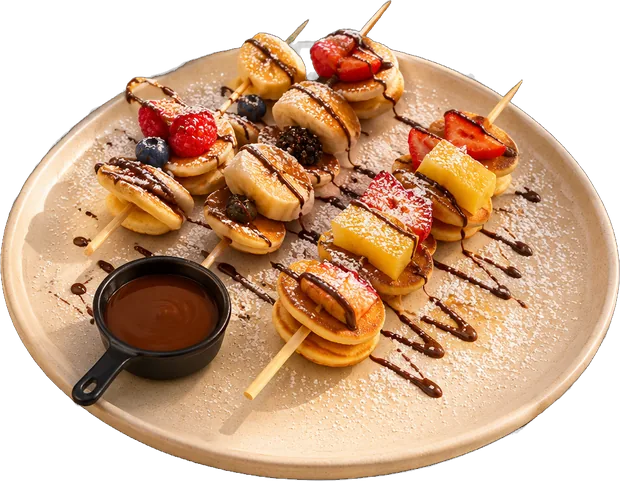
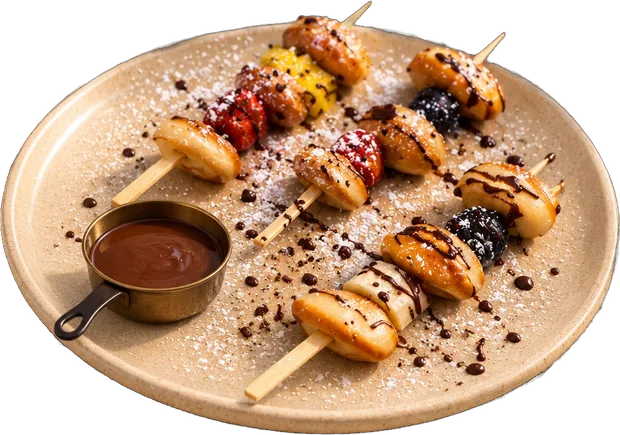
Pedacito del Cielo: brochetas nuevas, tabla sin achatar y Pancake Love sin borde oscuro (#14)
Claude-Session: https://claude.ai/code/session_018MScbdGAaesXz2M2RDuBei

diff --git a/demos/pedacito-del-cielo/index.html b/demos/pedacito-del-cielo/index.html
@@ -487,10 +487,10 @@ footer .f-datos{margin-top:22px;font-size:15px;line-height:1.7;opacity:.9}
   <div class="nicho"><img src="img/carta/pancake.webp" width="620" height="481" alt="Pancake Love, en Pedacito del Cielo" loading="lazy" decoding="async"></div>
   <h4>Pancake Love</h4><p class="pr tnum">6,50&nbsp;€</p><p class="desc">Con nata montada, un <i>topping</i> y una salsa.</p>
 </li><li class="plato ancho" style="--i:1">
-  <div class="nicho"><img src="img/carta/brochetas.webp" width="620" height="481" alt="Brochetas de pancake, en Pedacito del Cielo" loading="lazy" decoding="async"></div>
+  <div class="nicho"><img src="img/carta/brochetas.webp" width="620" height="435" alt="Brochetas de pancake, en Pedacito del Cielo" loading="lazy" decoding="async"></div>
   <h4>Brochetas de pancake</h4><p class="pr tnum">6,50&nbsp;€</p><p class="desc">Tres brochetas: frambuesa y arándanos; plátano y mora; fresa y piña. Con chocolate blanco con frutos rojos y chocolate negro crujiente.</p>
 </li></ul><ul class="filas"><li><span class="n">Gofre Pedacito del Cielo</span><i aria-hidden="true"></i><b class="tnum">6,95&nbsp;€</b><span class="desc">Con nata montada, un <i>topping</i> y una salsa.</span></li><li><span class="n">Gofre Bubble Delight</span><i aria-hidden="true"></i><b class="tnum">6,95&nbsp;€</b><span class="desc">Con helado <i>soft</i> de yogur griego o nata montada, un <i>topping</i> y una salsa.</span></li><li><span class="n">Coulant</span><i aria-hidden="true"></i><b class="tnum">6,50&nbsp;€</b><span class="desc">De chocolate, con salsa <i>gourmet</i> y helado <i>soft</i> de nata.</span></li></ul></div><div class="bloque"><h3>Para compartir</h3><ul class="nichos"><li class="plato ancho" style="--i:0">
-  <div class="nicho"><img src="img/carta/tabla.webp" width="559" height="474" alt="Tabla Pedacito del Cielo, en Pedacito del Cielo" loading="lazy" decoding="async"></div>
+  <div class="nicho"><img src="img/carta/tabla.webp" width="559" height="620" alt="Tabla Pedacito del Cielo, en Pedacito del Cielo" loading="lazy" decoding="async"></div>
   <h4>Tabla Pedacito del Cielo</h4><p class="pr tnum">18,95&nbsp;€</p><p class="desc">Gofre Alas, brocheta de pancake, fresas y arándanos en <i>crunch</i> de chocolates, corazón de frambuesa, fruta, yogur griego, nata montada y salsa <i>gourmet</i>.</p>
 </li></ul><ul class="filas"><li><span class="n">Tabla Bubble Delight</span><i aria-hidden="true"></i><b class="tnum">18,95&nbsp;€</b><span class="desc"><i>Bubble waffle</i>, <i>coulant</i>, fresas y arándanos en <i>crunch</i> de chocolates, corazón de frambuesa, fruta, yogur griego, nata montada y salsa <i>gourmet</i>.</span></li></ul></div><nav class="pasar" aria-label="Pasar de capítulo"><a class="ant" href="#c-bebidas" data-c="bebidas"><small>Anterior</small>Café y bebidas</a><a class="sig" href="#c-helados" data-c="helados"><small>Siguiente</small>Helado <i>soft</i></a></nav></section><section class="capitulo" id="c-helados" role="tabpanel" aria-labelledby="t-helados" hidden><h3 class="cap-tit">Helado <i>soft</i></h3><p class="intro-cap">No eres una copia: crea el tuyo. El <i>crunch</i> clásico y la salsa <i>gourmet</i> van incluidos en el precio.</p><div class="bloque"><ul class="nichos"><li class="plato alto" style="--i:0">
   <div class="nicho"><img src="img/carta/helado.webp" width="432" height="620" alt="Helado soft en tarrina, en Pedacito del Cielo" loading="lazy" decoding="async"></div>
